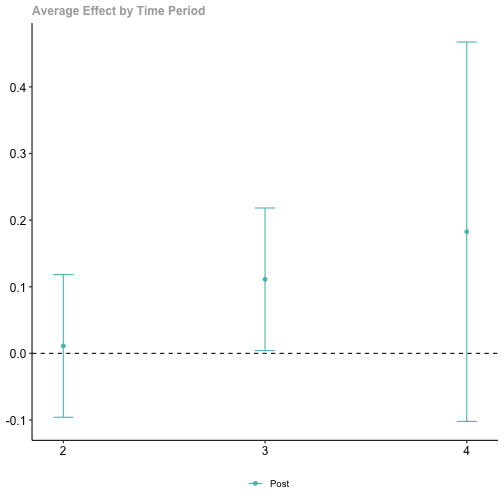
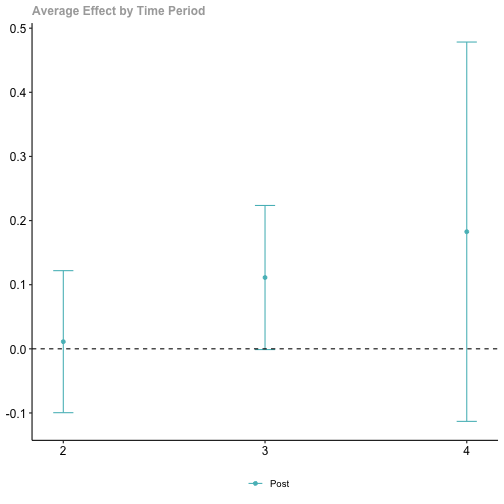
Add definition of treatment

diff --git a/talk/tamani-3po.html b/talk/tamani-3po.html
@@ -84,6 +84,23 @@ class: center, middle, inverse, title-slide
 ]
 
 ---
+## A note about defining 'treated'
+.pull-left[
+- *Treated* at wave 4 For immediate outcomes (contraceptive prevalence, unmet need for family planning).
+
+- Same woman reports on a child that was born in January 2019 (before the intervention was implemented).
+
+- *Untreated* at wave 4 for for Jan '19 delivery outcomes (skilled birth attendance and respectful care).
+
+- Pregnancy began in the spring of 2018, so pregnancy outcomes (antenatal care visits) are considered “untreated”. 
+]
+
+.pull-right[
+Respondent at wave 4 (January 2021). 
+&lt;img src="/Users/samharper/git/tamani/talk/treated.png" width="988" /&gt;
+]
+
+---
 ## Basic setup for DD with variable timing
 .right-column[
 We have different districts that are exposed to our intervention at different times. We often use OLS (or LPM) to fit:
@@ -118,12 +135,6 @@ We have different districts that are exposed to our intervention at different ti
 ]
 .right-column[.center[
 ![:scale 90%](baker-f1.png)]]
-
----
-## Who is treated?
-.pull-right[
-&lt;img src="/Users/samharper/git/tamani/talk/treated.png" width="250" /&gt;
-]
 
 ---
 ## Data structure: Individual-level
@@ -533,81 +544,81 @@ did::att_gt(yname = "sba_birth", # name of the LHS variable
    &lt;td style="text-align:right;"&gt; 2 &lt;/td&gt;
    &lt;td style="text-align:right;"&gt; 2 &lt;/td&gt;
    &lt;td style="text-align:right;"&gt; 0.011 &lt;/td&gt;
-   &lt;td style="text-align:right;"&gt; 0.057 &lt;/td&gt;
-   &lt;td style="text-align:right;"&gt; -0.100 &lt;/td&gt;
-   &lt;td style="text-align:right;"&gt; 0.122 &lt;/td&gt;
+   &lt;td style="text-align:right;"&gt; 0.052 &lt;/td&gt;
+   &lt;td style="text-align:right;"&gt; -0.091 &lt;/td&gt;
+   &lt;td style="text-align:right;"&gt; 0.113 &lt;/td&gt;
   &lt;/tr&gt;
   &lt;tr&gt;
    &lt;td style="text-align:left;"&gt; ATT(2,3) &lt;/td&gt;
    &lt;td style="text-align:right;"&gt; 2 &lt;/td&gt;
    &lt;td style="text-align:right;"&gt; 3 &lt;/td&gt;
    &lt;td style="text-align:right;"&gt; 0.260 &lt;/td&gt;
-   &lt;td style="text-align:right;"&gt; 0.059 &lt;/td&gt;
-   &lt;td style="text-align:right;"&gt; 0.144 &lt;/td&gt;
-   &lt;td style="text-align:right;"&gt; 0.376 &lt;/td&gt;
+   &lt;td style="text-align:right;"&gt; 0.058 &lt;/td&gt;
+   &lt;td style="text-align:right;"&gt; 0.146 &lt;/td&gt;
+   &lt;td style="text-align:right;"&gt; 0.374 &lt;/td&gt;
   &lt;/tr&gt;
   &lt;tr&gt;
    &lt;td style="text-align:left;"&gt; ATT(2,4) &lt;/td&gt;
    &lt;td style="text-align:right;"&gt; 2 &lt;/td&gt;
    &lt;td style="text-align:right;"&gt; 4 &lt;/td&gt;
    &lt;td style="text-align:right;"&gt; 0.269 &lt;/td&gt;
-   &lt;td style="text-align:right;"&gt; 0.171 &lt;/td&gt;
-   &lt;td style="text-align:right;"&gt; -0.066 &lt;/td&gt;
-   &lt;td style="text-align:right;"&gt; 0.604 &lt;/td&gt;
+   &lt;td style="text-align:right;"&gt; 0.170 &lt;/td&gt;
+   &lt;td style="text-align:right;"&gt; -0.064 &lt;/td&gt;
+   &lt;td style="text-align:right;"&gt; 0.602 &lt;/td&gt;
   &lt;/tr&gt;
   &lt;tr&gt;
    &lt;td style="text-align:left;"&gt; ATT(3,2) &lt;/td&gt;
    &lt;td style="text-align:right;"&gt; 3 &lt;/td&gt;
    &lt;td style="text-align:right;"&gt; 2 &lt;/td&gt;
    &lt;td style="text-align:right;"&gt; 0.045 &lt;/td&gt;
-   &lt;td style="text-align:right;"&gt; 0.044 &lt;/td&gt;
-   &lt;td style="text-align:right;"&gt; -0.041 &lt;/td&gt;
-   &lt;td style="text-align:right;"&gt; 0.132 &lt;/td&gt;
+   &lt;td style="text-align:right;"&gt; 0.042 &lt;/td&gt;
+   &lt;td style="text-align:right;"&gt; -0.037 &lt;/td&gt;
+   &lt;td style="text-align:right;"&gt; 0.128 &lt;/td&gt;
   &lt;/tr&gt;
   &lt;tr&gt;
    &lt;td style="text-align:left;"&gt; ATT(3,3) &lt;/td&gt;
    &lt;td style="text-align:right;"&gt; 3 &lt;/td&gt;
    &lt;td style="text-align:right;"&gt; 3 &lt;/td&gt;
    &lt;td style="text-align:right;"&gt; 0.018 &lt;/td&gt;
-   &lt;td style="text-align:right;"&gt; 0.069 &lt;/td&gt;
-   &lt;td style="text-align:right;"&gt; -0.116 &lt;/td&gt;
-   &lt;td style="text-align:right;"&gt; 0.153 &lt;/td&gt;
+   &lt;td style="text-align:right;"&gt; 0.071 &lt;/td&gt;
+   &lt;td style="text-align:right;"&gt; -0.120 &lt;/td&gt;
+   &lt;td style="text-align:right;"&gt; 0.157 &lt;/td&gt;
   &lt;/tr&gt;
   &lt;tr&gt;
    &lt;td style="text-align:left;"&gt; ATT(3,4) &lt;/td&gt;
    &lt;td style="text-align:right;"&gt; 3 &lt;/td&gt;
    &lt;td style="text-align:right;"&gt; 4 &lt;/td&gt;
    &lt;td style="text-align:right;"&gt; 0.170 &lt;/td&gt;
-   &lt;td style="text-align:right;"&gt; 0.162 &lt;/td&gt;
-   &lt;td style="text-align:right;"&gt; -0.148 &lt;/td&gt;
-   &lt;td style="text-align:right;"&gt; 0.488 &lt;/td&gt;
+   &lt;td style="text-align:right;"&gt; 0.157 &lt;/td&gt;
+   &lt;td style="text-align:right;"&gt; -0.137 &lt;/td&gt;
+   &lt;td style="text-align:right;"&gt; 0.476 &lt;/td&gt;
   &lt;/tr&gt;
   &lt;tr&gt;
    &lt;td style="text-align:left;"&gt; ATT(4,2) &lt;/td&gt;
    &lt;td style="text-align:right;"&gt; 4 &lt;/td&gt;
    &lt;td style="text-align:right;"&gt; 2 &lt;/td&gt;
    &lt;td style="text-align:right;"&gt; -0.062 &lt;/td&gt;
-   &lt;td style="text-align:right;"&gt; 0.043 &lt;/td&gt;
-   &lt;td style="text-align:right;"&gt; -0.147 &lt;/td&gt;
-   &lt;td style="text-align:right;"&gt; 0.022 &lt;/td&gt;
+   &lt;td style="text-align:right;"&gt; 0.046 &lt;/td&gt;
+   &lt;td style="text-align:right;"&gt; -0.152 &lt;/td&gt;
+   &lt;td style="text-align:right;"&gt; 0.027 &lt;/td&gt;
   &lt;/tr&gt;
   &lt;tr&gt;
    &lt;td style="text-align:left;"&gt; ATT(4,3) &lt;/td&gt;
    &lt;td style="text-align:right;"&gt; 4 &lt;/td&gt;
    &lt;td style="text-align:right;"&gt; 3 &lt;/td&gt;
    &lt;td style="text-align:right;"&gt; -0.048 &lt;/td&gt;
-   &lt;td style="text-align:right;"&gt; 0.085 &lt;/td&gt;
-   &lt;td style="text-align:right;"&gt; -0.215 &lt;/td&gt;
-   &lt;td style="text-align:right;"&gt; 0.119 &lt;/td&gt;
+   &lt;td style="text-align:right;"&gt; 0.082 &lt;/td&gt;
+   &lt;td style="text-align:right;"&gt; -0.209 &lt;/td&gt;
+   &lt;td style="text-align:right;"&gt; 0.113 &lt;/td&gt;
   &lt;/tr&gt;
   &lt;tr&gt;
    &lt;td style="text-align:left;"&gt; ATT(4,4) &lt;/td&gt;
    &lt;td style="text-align:right;"&gt; 4 &lt;/td&gt;
    &lt;td style="text-align:right;"&gt; 4 &lt;/td&gt;
    &lt;td style="text-align:right;"&gt; 0.130 &lt;/td&gt;
-   &lt;td style="text-align:right;"&gt; 0.189 &lt;/td&gt;
-   &lt;td style="text-align:right;"&gt; -0.240 &lt;/td&gt;
-   &lt;td style="text-align:right;"&gt; 0.500 &lt;/td&gt;
+   &lt;td style="text-align:right;"&gt; 0.172 &lt;/td&gt;
+   &lt;td style="text-align:right;"&gt; -0.207 &lt;/td&gt;
+   &lt;td style="text-align:right;"&gt; 0.468 &lt;/td&gt;
   &lt;/tr&gt;
 &lt;/tbody&gt;
 &lt;tfoot&gt;
@@ -1074,18 +1085,18 @@ Our 'hand-calculated' ATT(4,2) of -0.062 is the same as the CS estimate:
    &lt;td style="text-align:right;"&gt; 2 &lt;/td&gt;
    &lt;td style="text-align:right;"&gt; 2 &lt;/td&gt;
    &lt;td style="text-align:right;"&gt; 0.011 &lt;/td&gt;
-   &lt;td style="text-align:right;"&gt; 0.056 &lt;/td&gt;
-   &lt;td style="text-align:right;"&gt; -0.099 &lt;/td&gt;
-   &lt;td style="text-align:right;"&gt; 0.121 &lt;/td&gt;
+   &lt;td style="text-align:right;"&gt; 0.055 &lt;/td&gt;
+   &lt;td style="text-align:right;"&gt; -0.096 &lt;/td&gt;
+   &lt;td style="text-align:right;"&gt; 0.118 &lt;/td&gt;
   &lt;/tr&gt;
   &lt;tr&gt;
    &lt;td style="text-align:left;"&gt; ATT(2,3) &lt;/td&gt;
    &lt;td style="text-align:right;"&gt; 2 &lt;/td&gt;
    &lt;td style="text-align:right;"&gt; 3 &lt;/td&gt;
    &lt;td style="text-align:right;"&gt; 0.260 &lt;/td&gt;
-   &lt;td style="text-align:right;"&gt; 0.059 &lt;/td&gt;
-   &lt;td style="text-align:right;"&gt; 0.145 &lt;/td&gt;
-   &lt;td style="text-align:right;"&gt; 0.376 &lt;/td&gt;
+   &lt;td style="text-align:right;"&gt; 0.055 &lt;/td&gt;
+   &lt;td style="text-align:right;"&gt; 0.152 &lt;/td&gt;
+   &lt;td style="text-align:right;"&gt; 0.368 &lt;/td&gt;
   &lt;/tr&gt;
   &lt;tr&gt;
    &lt;td style="text-align:left;"&gt; ATT(2,4) &lt;/td&gt;
@@ -1094,16 +1105,16 @@ Our 'hand-calculated' ATT(4,2) of -0.062 is the same as the CS estimate:
    &lt;td style="text-align:right;"&gt; 0.269 &lt;/td&gt;
    &lt;td style="text-align:right;"&gt; 0.169 &lt;/td&gt;
    &lt;td style="text-align:right;"&gt; -0.062 &lt;/td&gt;
-   &lt;td style="text-align:right;"&gt; 0.600 &lt;/td&gt;
+   &lt;td style="text-align:right;"&gt; 0.601 &lt;/td&gt;
   &lt;/tr&gt;
   &lt;tr&gt;
    &lt;td style="text-align:left;"&gt; ATT(3,2) &lt;/td&gt;
    &lt;td style="text-align:right;"&gt; 3 &lt;/td&gt;
    &lt;td style="text-align:right;"&gt; 2 &lt;/td&gt;
    &lt;td style="text-align:right;"&gt; 0.045 &lt;/td&gt;
-   &lt;td style="text-align:right;"&gt; 0.043 &lt;/td&gt;
-   &lt;td style="text-align:right;"&gt; -0.038 &lt;/td&gt;
-   &lt;td style="text-align:right;"&gt; 0.129 &lt;/td&gt;
+   &lt;td style="text-align:right;"&gt; 0.045 &lt;/td&gt;
+   &lt;td style="text-align:right;"&gt; -0.044 &lt;/td&gt;
+   &lt;td style="text-align:right;"&gt; 0.134 &lt;/td&gt;
   &lt;/tr&gt;
   &lt;tr&gt;
    &lt;td style="text-align:left;"&gt; ATT(3,3) &lt;/td&gt;
@@ -1111,8 +1122,8 @@ Our 'hand-calculated' ATT(4,2) of -0.062 is the same as the CS estimate:
    &lt;td style="text-align:right;"&gt; 3 &lt;/td&gt;
    &lt;td style="text-align:right;"&gt; 0.018 &lt;/td&gt;
    &lt;td style="text-align:right;"&gt; 0.071 &lt;/td&gt;
-   &lt;td style="text-align:right;"&gt; -0.122 &lt;/td&gt;
-   &lt;td style="text-align:right;"&gt; 0.159 &lt;/td&gt;
+   &lt;td style="text-align:right;"&gt; -0.120 &lt;/td&gt;
+   &lt;td style="text-align:right;"&gt; 0.157 &lt;/td&gt;
   &lt;/tr&gt;
   &lt;tr&gt;
    &lt;td style="text-align:left;"&gt; ATT(3,4) &lt;/td&gt;
@@ -1120,35 +1131,35 @@ Our 'hand-calculated' ATT(4,2) of -0.062 is the same as the CS estimate:
    &lt;td style="text-align:right;"&gt; 4 &lt;/td&gt;
    &lt;td style="text-align:right;"&gt; 0.170 &lt;/td&gt;
    &lt;td style="text-align:right;"&gt; 0.156 &lt;/td&gt;
-   &lt;td style="text-align:right;"&gt; -0.137 &lt;/td&gt;
-   &lt;td style="text-align:right;"&gt; 0.476 &lt;/td&gt;
+   &lt;td style="text-align:right;"&gt; -0.135 &lt;/td&gt;
+   &lt;td style="text-align:right;"&gt; 0.474 &lt;/td&gt;
   &lt;/tr&gt;
   &lt;tr&gt;
    &lt;td style="text-align:left;background-color: yellow !important;"&gt; ATT(4,2) &lt;/td&gt;
    &lt;td style="text-align:right;background-color: yellow !important;"&gt; 4 &lt;/td&gt;
    &lt;td style="text-align:right;background-color: yellow !important;"&gt; 2 &lt;/td&gt;
    &lt;td style="text-align:right;background-color: yellow !important;"&gt; -0.062 &lt;/td&gt;
-   &lt;td style="text-align:right;background-color: yellow !important;"&gt; 0.044 &lt;/td&gt;
-   &lt;td style="text-align:right;background-color: yellow !important;"&gt; -0.149 &lt;/td&gt;
-   &lt;td style="text-align:right;background-color: yellow !important;"&gt; 0.024 &lt;/td&gt;
+   &lt;td style="text-align:right;background-color: yellow !important;"&gt; 0.048 &lt;/td&gt;
+   &lt;td style="text-align:right;background-color: yellow !important;"&gt; -0.156 &lt;/td&gt;
+   &lt;td style="text-align:right;background-color: yellow !important;"&gt; 0.031 &lt;/td&gt;
   &lt;/tr&gt;
   &lt;tr&gt;
    &lt;td style="text-align:left;"&gt; ATT(4,3) &lt;/td&gt;
    &lt;td style="text-align:right;"&gt; 4 &lt;/td&gt;
    &lt;td style="text-align:right;"&gt; 3 &lt;/td&gt;
    &lt;td style="text-align:right;"&gt; -0.048 &lt;/td&gt;
-   &lt;td style="text-align:right;"&gt; 0.081 &lt;/td&gt;
-   &lt;td style="text-align:right;"&gt; -0.206 &lt;/td&gt;
-   &lt;td style="text-align:right;"&gt; 0.110 &lt;/td&gt;
+   &lt;td style="text-align:right;"&gt; 0.085 &lt;/td&gt;
+   &lt;td style="text-align:right;"&gt; -0.215 &lt;/td&gt;
+   &lt;td style="text-align:right;"&gt; 0.118 &lt;/td&gt;
   &lt;/tr&gt;
   &lt;tr&gt;
    &lt;td style="text-align:left;"&gt; ATT(4,4) &lt;/td&gt;
    &lt;td style="text-align:right;"&gt; 4 &lt;/td&gt;
    &lt;td style="text-align:right;"&gt; 4 &lt;/td&gt;
    &lt;td style="text-align:right;"&gt; 0.130 &lt;/td&gt;
-   &lt;td style="text-align:right;"&gt; 0.185 &lt;/td&gt;
-   &lt;td style="text-align:right;"&gt; -0.232 &lt;/td&gt;
-   &lt;td style="text-align:right;"&gt; 0.493 &lt;/td&gt;
+   &lt;td style="text-align:right;"&gt; 0.182 &lt;/td&gt;
+   &lt;td style="text-align:right;"&gt; -0.226 &lt;/td&gt;
+   &lt;td style="text-align:right;"&gt; 0.487 &lt;/td&gt;
   &lt;/tr&gt;
 &lt;/tbody&gt;
 &lt;/table&gt;
@@ -1268,37 +1279,37 @@ Our 'hand-calculated' ATT(4,2) of -0.062 is the same as the CS estimate:
   &lt;tr&gt;
    &lt;td style="text-align:right;"&gt; -2 &lt;/td&gt;
    &lt;td style="text-align:right;"&gt; -0.062 &lt;/td&gt;
-   &lt;td style="text-align:right;"&gt; 0.045 &lt;/td&gt;
-   &lt;td style="text-align:right;"&gt; -0.150 &lt;/td&gt;
-   &lt;td style="text-align:right;"&gt; 0.026 &lt;/td&gt;
+   &lt;td style="text-align:right;"&gt; 0.042 &lt;/td&gt;
+   &lt;td style="text-align:right;"&gt; -0.144 &lt;/td&gt;
+   &lt;td style="text-align:right;"&gt; 0.019 &lt;/td&gt;
   &lt;/tr&gt;
   &lt;tr&gt;
    &lt;td style="text-align:right;"&gt; -1 &lt;/td&gt;
    &lt;td style="text-align:right;"&gt; 0.004 &lt;/td&gt;
-   &lt;td style="text-align:right;"&gt; 0.047 &lt;/td&gt;
-   &lt;td style="text-align:right;"&gt; -0.088 &lt;/td&gt;
-   &lt;td style="text-align:right;"&gt; 0.096 &lt;/td&gt;
+   &lt;td style="text-align:right;"&gt; 0.052 &lt;/td&gt;
+   &lt;td style="text-align:right;"&gt; -0.097 &lt;/td&gt;
+   &lt;td style="text-align:right;"&gt; 0.105 &lt;/td&gt;
   &lt;/tr&gt;
   &lt;tr&gt;
    &lt;td style="text-align:right;"&gt; 0 &lt;/td&gt;
    &lt;td style="text-align:right;"&gt; 0.053 &lt;/td&gt;
-   &lt;td style="text-align:right;"&gt; 0.071 &lt;/td&gt;
-   &lt;td style="text-align:right;"&gt; -0.087 &lt;/td&gt;
-   &lt;td style="text-align:right;"&gt; 0.193 &lt;/td&gt;
+   &lt;td style="text-align:right;"&gt; 0.068 &lt;/td&gt;
+   &lt;td style="text-align:right;"&gt; -0.080 &lt;/td&gt;
+   &lt;td style="text-align:right;"&gt; 0.186 &lt;/td&gt;
   &lt;/tr&gt;
   &lt;tr&gt;
    &lt;td style="text-align:right;"&gt; 1 &lt;/td&gt;
    &lt;td style="text-align:right;"&gt; 0.204 &lt;/td&gt;
-   &lt;td style="text-align:right;"&gt; 0.100 &lt;/td&gt;
-   &lt;td style="text-align:right;"&gt; 0.008 &lt;/td&gt;
-   &lt;td style="text-align:right;"&gt; 0.401 &lt;/td&gt;
+   &lt;td style="text-align:right;"&gt; 0.104 &lt;/td&gt;
+   &lt;td style="text-align:right;"&gt; 0.001 &lt;/td&gt;
+   &lt;td style="text-align:right;"&gt; 0.408 &lt;/td&gt;
   &lt;/tr&gt;
   &lt;tr&gt;
    &lt;td style="text-align:right;"&gt; 2 &lt;/td&gt;
    &lt;td style="text-align:right;"&gt; 0.269 &lt;/td&gt;
-   &lt;td style="text-align:right;"&gt; 0.159 &lt;/td&gt;
-   &lt;td style="text-align:right;"&gt; -0.043 &lt;/td&gt;
-   &lt;td style="text-align:right;"&gt; 0.581 &lt;/td&gt;
+   &lt;td style="text-align:right;"&gt; 0.166 &lt;/td&gt;
+   &lt;td style="text-align:right;"&gt; -0.057 &lt;/td&gt;
+   &lt;td style="text-align:right;"&gt; 0.595 &lt;/td&gt;
   &lt;/tr&gt;
 &lt;/tbody&gt;
 &lt;/table&gt;
@@ -1331,30 +1342,30 @@ Our 'hand-calculated' ATT(4,2) of -0.062 is the same as the CS estimate:
   &lt;tr&gt;
    &lt;td style="text-align:left;"&gt; Average &lt;/td&gt;
    &lt;td style="text-align:right;"&gt; 0.128 &lt;/td&gt;
-   &lt;td style="text-align:right;"&gt; 0.103 &lt;/td&gt;
-   &lt;td style="text-align:right;"&gt; -0.075 &lt;/td&gt;
-   &lt;td style="text-align:right;"&gt; 0.331 &lt;/td&gt;
+   &lt;td style="text-align:right;"&gt; 0.096 &lt;/td&gt;
+   &lt;td style="text-align:right;"&gt; -0.060 &lt;/td&gt;
+   &lt;td style="text-align:right;"&gt; 0.317 &lt;/td&gt;
   &lt;/tr&gt;
   &lt;tr&gt;
    &lt;td style="text-align:left;"&gt; 2 &lt;/td&gt;
    &lt;td style="text-align:right;"&gt; 0.180 &lt;/td&gt;
-   &lt;td style="text-align:right;"&gt; 0.067 &lt;/td&gt;
-   &lt;td style="text-align:right;"&gt; 0.049 &lt;/td&gt;
-   &lt;td style="text-align:right;"&gt; 0.311 &lt;/td&gt;
+   &lt;td style="text-align:right;"&gt; 0.064 &lt;/td&gt;
+   &lt;td style="text-align:right;"&gt; 0.055 &lt;/td&gt;
+   &lt;td style="text-align:right;"&gt; 0.306 &lt;/td&gt;
   &lt;/tr&gt;
   &lt;tr&gt;
    &lt;td style="text-align:left;"&gt; 3 &lt;/td&gt;
    &lt;td style="text-align:right;"&gt; 0.094 &lt;/td&gt;
-   &lt;td style="text-align:right;"&gt; 0.092 &lt;/td&gt;
-   &lt;td style="text-align:right;"&gt; -0.086 &lt;/td&gt;
-   &lt;td style="text-align:right;"&gt; 0.274 &lt;/td&gt;
+   &lt;td style="text-align:right;"&gt; 0.089 &lt;/td&gt;
+   &lt;td style="text-align:right;"&gt; -0.081 &lt;/td&gt;
+   &lt;td style="text-align:right;"&gt; 0.269 &lt;/td&gt;
   &lt;/tr&gt;
   &lt;tr&gt;
    &lt;td style="text-align:left;"&gt; 4 &lt;/td&gt;
    &lt;td style="text-align:right;"&gt; 0.130 &lt;/td&gt;
-   &lt;td style="text-align:right;"&gt; 0.189 &lt;/td&gt;
-   &lt;td style="text-align:right;"&gt; -0.240 &lt;/td&gt;
-   &lt;td style="text-align:right;"&gt; 0.501 &lt;/td&gt;
+   &lt;td style="text-align:right;"&gt; 0.190 &lt;/td&gt;
+   &lt;td style="text-align:right;"&gt; -0.243 &lt;/td&gt;
+   &lt;td style="text-align:right;"&gt; 0.504 &lt;/td&gt;
   &lt;/tr&gt;
 &lt;/tbody&gt;
 &lt;/table&gt;
@@ -1388,23 +1399,23 @@ Our 'hand-calculated' ATT(4,2) of -0.062 is the same as the CS estimate:
   &lt;tr&gt;
    &lt;td style="text-align:right;"&gt; 2 &lt;/td&gt;
    &lt;td style="text-align:right;"&gt; 0.011 &lt;/td&gt;
-   &lt;td style="text-align:right;"&gt; 0.055 &lt;/td&gt;
-   &lt;td style="text-align:right;"&gt; -0.096 &lt;/td&gt;
-   &lt;td style="text-align:right;"&gt; 0.118 &lt;/td&gt;
+   &lt;td style="text-align:right;"&gt; 0.057 &lt;/td&gt;
+   &lt;td style="text-align:right;"&gt; -0.100 &lt;/td&gt;
+   &lt;td style="text-align:right;"&gt; 0.122 &lt;/td&gt;
   &lt;/tr&gt;
   &lt;tr&gt;
    &lt;td style="text-align:right;"&gt; 3 &lt;/td&gt;
    &lt;td style="text-align:right;"&gt; 0.111 &lt;/td&gt;
-   &lt;td style="text-align:right;"&gt; 0.055 &lt;/td&gt;
-   &lt;td style="text-align:right;"&gt; 0.004 &lt;/td&gt;
-   &lt;td style="text-align:right;"&gt; 0.218 &lt;/td&gt;
+   &lt;td style="text-align:right;"&gt; 0.057 &lt;/td&gt;
+   &lt;td style="text-align:right;"&gt; -0.001 &lt;/td&gt;
+   &lt;td style="text-align:right;"&gt; 0.224 &lt;/td&gt;
   &lt;/tr&gt;
   &lt;tr&gt;
    &lt;td style="text-align:right;"&gt; 4 &lt;/td&gt;
    &lt;td style="text-align:right;"&gt; 0.183 &lt;/td&gt;
-   &lt;td style="text-align:right;"&gt; 0.145 &lt;/td&gt;
-   &lt;td style="text-align:right;"&gt; -0.102 &lt;/td&gt;
-   &lt;td style="text-align:right;"&gt; 0.467 &lt;/td&gt;
+   &lt;td style="text-align:right;"&gt; 0.151 &lt;/td&gt;
+   &lt;td style="text-align:right;"&gt; -0.113 &lt;/td&gt;
+   &lt;td style="text-align:right;"&gt; 0.478 &lt;/td&gt;
   &lt;/tr&gt;
 &lt;/tbody&gt;
 &lt;/table&gt;
